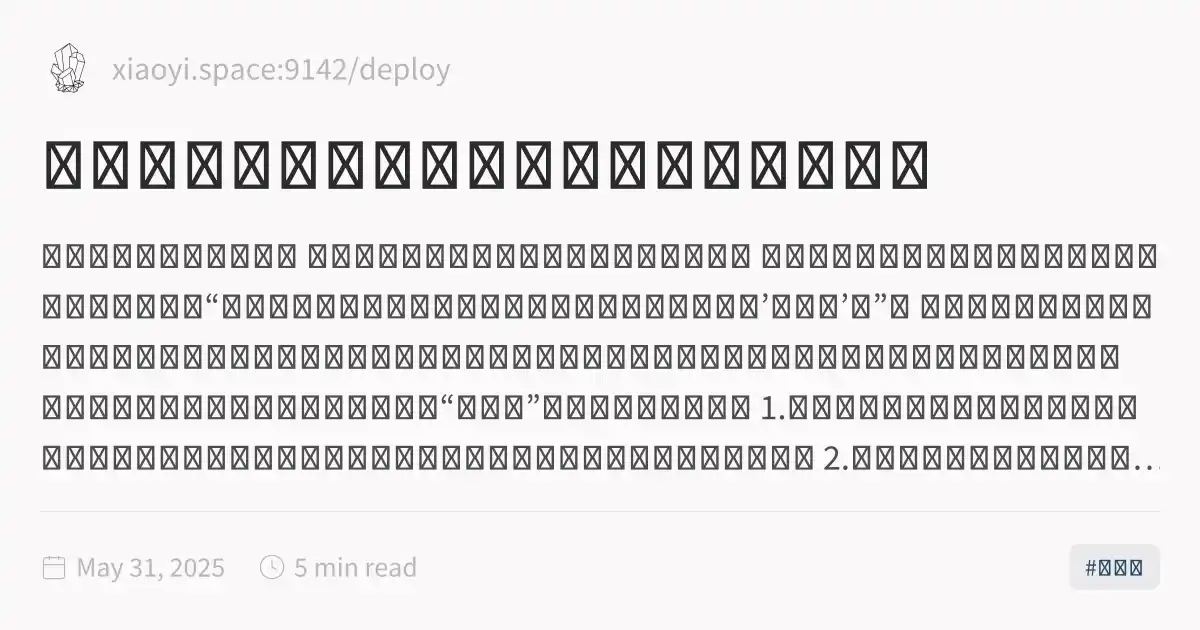
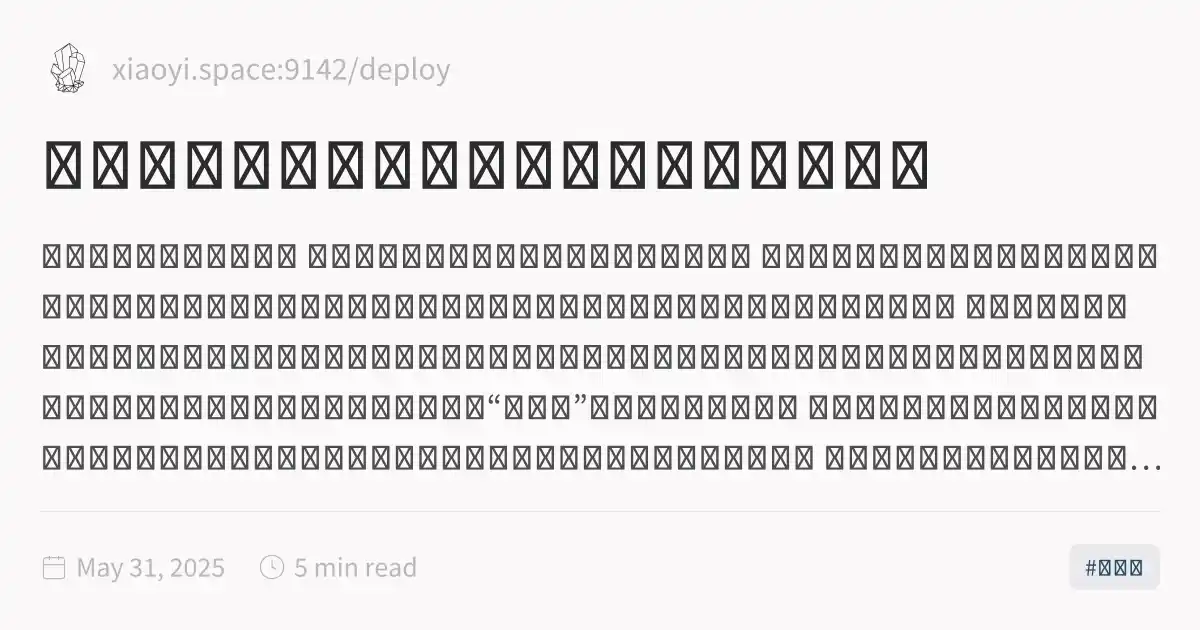
feature:update format

diff --git a/deploy/摩托车安全驾驶需要具备的能力有些什么？.html b/deploy/摩托车安全驾驶需要具备的能力有些什么？.html
@@ -1,5 +1,5 @@
 <!DOCTYPE html>
-<html lang="en"><head><title>摩托车安全驾驶需要具备的能力有些什么？</title><meta charset="utf-8"/><link rel="preconnect" href="https://fonts.googleapis.com"/><link rel="preconnect" href="https://fonts.gstatic.com"/><link rel="stylesheet" href="https://fonts.googleapis.com/css2?family=Schibsted Grotesk:wght@400;700&amp;family=Source Sans Pro:ital,wght@0,400;0,600;1,400;1,600&amp;family=IBM Plex Mono:wght@400;600&amp;display=swap"/><link rel="preconnect" href="https://cdnjs.cloudflare.com" crossorigin="anonymous"/><meta name="viewport" content="width=device-width, initial-scale=1.0"/><meta name="og:site_name" content="xiaoyili.space"/><meta property="og:title" content="摩托车安全驾驶需要具备的能力有些什么？"/><meta property="og:type" content="website"/><meta name="twitter:card" content="summary_large_image"/><meta name="twitter:title" content="摩托车安全驾驶需要具备的能力有些什么？"/><meta name="twitter:description" content="这是一个知乎上的问题。 摩托车安全驾驶需要具备的能力有些什么？ 看到这个问题，想起来不久前一个新手车友也问过我：“你说就平时咱们这种骑车，骑到什么样的水平，算是’骑得好’？”； 说一点个人看法吧，不考虑赛道、金卡纳、越野这种已经属于竞技层次的骑车，单说把摩托车作为一种通勤、旅行的交通工具来说，能做到下面这些，感觉就算是一个“骑得好”的摩托车驾驶人了； 1.平顺的起步，但是又不拖泥带水，不拖挡不熄火，同时在需要的时候也能做到快速果断有一点点暴力的起步； 2.刹车的合理使用，包括平稳的刹停，同时能根据路面情况自由选择用哪一边作为支持脚，这一点要能做到真正的主动去选择而不是被动的由车辆来带动，否则横..."/><meta property="og:description" content="这是一个知乎上的问题。 摩托车安全驾驶需要具备的能力有些什么？ 看到这个问题，想起来不久前一个新手车友也问过我：“你说就平时咱们这种骑车，骑到什么样的水平，算是’骑得好’？”； 说一点个人看法吧，不考虑赛道、金卡纳、越野这种已经属于竞技层次的骑车，单说把摩托车作为一种通勤、旅行的交通工具来说，能做到下面这些，感觉就算是一个“骑得好”的摩托车驾驶人了； 1.平顺的起步，但是又不拖泥带水，不拖挡不熄火，同时在需要的时候也能做到快速果断有一点点暴力的起步； 2.刹车的合理使用，包括平稳的刹停，同时能根据路面情况自由选择用哪一边作为支持脚，这一点要能做到真正的主动去选择而不是被动的由车辆来带动，否则横..."/><meta property="og:image:alt" content="这是一个知乎上的问题。 摩托车安全驾驶需要具备的能力有些什么？ 看到这个问题，想起来不久前一个新手车友也问过我：“你说就平时咱们这种骑车，骑到什么样的水平，算是’骑得好’？”； 说一点个人看法吧，不考虑赛道、金卡纳、越野这种已经属于竞技层次的骑车，单说把摩托车作为一种通勤、旅行的交通工具来说，能做到下面这些，感觉就算是一个“骑得好”的摩托车驾驶人了； 1.平顺的起步，但是又不拖泥带水，不拖挡不熄火，同时在需要的时候也能做到快速果断有一点点暴力的起步； 2.刹车的合理使用，包括平稳的刹停，同时能根据路面情况自由选择用哪一边作为支持脚，这一点要能做到真正的主动去选择而不是被动的由车辆来带动，否则横..."/><meta property="twitter:domain" content="xiaoyi.space:9142/deploy"/><meta property="og:url" content="https://xiaoyi.space:9142/deploy/摩托车安全驾驶需要具备的能力有些什么？"/><meta property="twitter:url" content="https://xiaoyi.space:9142/deploy/摩托车安全驾驶需要具备的能力有些什么？"/><link rel="icon" href="./static/icon.png"/><meta name="description" content="这是一个知乎上的问题。 摩托车安全驾驶需要具备的能力有些什么？ 看到这个问题，想起来不久前一个新手车友也问过我：“你说就平时咱们这种骑车，骑到什么样的水平，算是’骑得好’？”； 说一点个人看法吧，不考虑赛道、金卡纳、越野这种已经属于竞技层次的骑车，单说把摩托车作为一种通勤、旅行的交通工具来说，能做到下面这些，感觉就算是一个“骑得好”的摩托车驾驶人了； 1.平顺的起步，但是又不拖泥带水，不拖挡不熄火，同时在需要的时候也能做到快速果断有一点点暴力的起步； 2.刹车的合理使用，包括平稳的刹停，同时能根据路面情况自由选择用哪一边作为支持脚，这一点要能做到真正的主动去选择而不是被动的由车辆来带动，否则横..."/><meta name="generator" content="Quartz"/><link href="./index.css" rel="stylesheet" type="text/css" spa-preserve/><style>.expand-button {
+<html lang="en"><head><title>摩托车安全驾驶需要具备的能力有些什么？</title><meta charset="utf-8"/><link rel="preconnect" href="https://fonts.googleapis.com"/><link rel="preconnect" href="https://fonts.gstatic.com"/><link rel="stylesheet" href="https://fonts.googleapis.com/css2?family=Schibsted Grotesk:wght@400;700&amp;family=Source Sans Pro:ital,wght@0,400;0,600;1,400;1,600&amp;family=IBM Plex Mono:wght@400;600&amp;display=swap"/><link rel="preconnect" href="https://cdnjs.cloudflare.com" crossorigin="anonymous"/><meta name="viewport" content="width=device-width, initial-scale=1.0"/><meta name="og:site_name" content="xiaoyili.space"/><meta property="og:title" content="摩托车安全驾驶需要具备的能力有些什么？"/><meta property="og:type" content="website"/><meta name="twitter:card" content="summary_large_image"/><meta name="twitter:title" content="摩托车安全驾驶需要具备的能力有些什么？"/><meta name="twitter:description" content="这是一个知乎上的问题。 摩托车安全驾驶需要具备的能力有些什么？ 看到这个问题，想起来不久前一个新手车友也问过我：「你说就平时咱们这种骑车，骑到什么样的水平，算是『骑得好』？」； 说一点个人看法吧，不考虑赛道、金卡纳、越野这种已经属于竞技层次的骑车，单说把摩托车作为一种通勤、旅行的交通工具来说，能做到下面这些，感觉就算是一个“骑得好”的摩托车驾驶人了； 平顺的起步，但是又不拖泥带水，不拖挡不熄火，同时在需要的时候也能做到快速果断有一点点暴力的起步； 刹车的合理使用，包括平稳的刹停，同时能根据路面情况自由选择用哪一边作为支持脚，这一点要能做到真正的主动去选择而不是被动的由车辆来带动，否则横切在有坡..."/><meta property="og:description" content="这是一个知乎上的问题。 摩托车安全驾驶需要具备的能力有些什么？ 看到这个问题，想起来不久前一个新手车友也问过我：「你说就平时咱们这种骑车，骑到什么样的水平，算是『骑得好』？」； 说一点个人看法吧，不考虑赛道、金卡纳、越野这种已经属于竞技层次的骑车，单说把摩托车作为一种通勤、旅行的交通工具来说，能做到下面这些，感觉就算是一个“骑得好”的摩托车驾驶人了； 平顺的起步，但是又不拖泥带水，不拖挡不熄火，同时在需要的时候也能做到快速果断有一点点暴力的起步； 刹车的合理使用，包括平稳的刹停，同时能根据路面情况自由选择用哪一边作为支持脚，这一点要能做到真正的主动去选择而不是被动的由车辆来带动，否则横切在有坡..."/><meta property="og:image:alt" content="这是一个知乎上的问题。 摩托车安全驾驶需要具备的能力有些什么？ 看到这个问题，想起来不久前一个新手车友也问过我：「你说就平时咱们这种骑车，骑到什么样的水平，算是『骑得好』？」； 说一点个人看法吧，不考虑赛道、金卡纳、越野这种已经属于竞技层次的骑车，单说把摩托车作为一种通勤、旅行的交通工具来说，能做到下面这些，感觉就算是一个“骑得好”的摩托车驾驶人了； 平顺的起步，但是又不拖泥带水，不拖挡不熄火，同时在需要的时候也能做到快速果断有一点点暴力的起步； 刹车的合理使用，包括平稳的刹停，同时能根据路面情况自由选择用哪一边作为支持脚，这一点要能做到真正的主动去选择而不是被动的由车辆来带动，否则横切在有坡..."/><meta property="twitter:domain" content="xiaoyi.space:9142/deploy"/><meta property="og:url" content="https://xiaoyi.space:9142/deploy/摩托车安全驾驶需要具备的能力有些什么？"/><meta property="twitter:url" content="https://xiaoyi.space:9142/deploy/摩托车安全驾驶需要具备的能力有些什么？"/><link rel="icon" href="./static/icon.png"/><meta name="description" content="这是一个知乎上的问题。 摩托车安全驾驶需要具备的能力有些什么？ 看到这个问题，想起来不久前一个新手车友也问过我：「你说就平时咱们这种骑车，骑到什么样的水平，算是『骑得好』？」； 说一点个人看法吧，不考虑赛道、金卡纳、越野这种已经属于竞技层次的骑车，单说把摩托车作为一种通勤、旅行的交通工具来说，能做到下面这些，感觉就算是一个“骑得好”的摩托车驾驶人了； 平顺的起步，但是又不拖泥带水，不拖挡不熄火，同时在需要的时候也能做到快速果断有一点点暴力的起步； 刹车的合理使用，包括平稳的刹停，同时能根据路面情况自由选择用哪一边作为支持脚，这一点要能做到真正的主动去选择而不是被动的由车辆来带动，否则横切在有坡..."/><meta name="generator" content="Quartz"/><link href="./index.css" rel="stylesheet" type="text/css" spa-preserve/><style>.expand-button {
   position: absolute;
   display: flex;
   float: right;
@@ -116,24 +116,45 @@ pre:hover > .expand-button {
   padding: 0 12px;
   font-size: 14px;
 }
[2 lines of base64/hex data omitted]
 <a href="https://www.zhihu.com/question/567345988/answer/2764635033" class="external">摩托车安全驾驶需要具备的能力有些什么？<svg aria-hidden="true" class="external-icon" style="max-width:0.8em;max-height:0.8em;" viewBox="0 0 512 512"><path d="M320 0H288V64h32 82.7L201.4 265.4 178.7 288 224 333.3l22.6-22.6L448 109.3V192v32h64V192 32 0H480 320zM32 32H0V64 480v32H32 456h32V480 352 320H424v32 96H64V96h96 32V32H160 32z"></path></svg></a></p>
-<p>看到这个问题，想起来不久前一个新手车友也问过我：“你说就平时咱们这种骑车，骑到什么样的水平，算是’骑得好’？”；</p>
+<p>看到这个问题，想起来不久前一个新手车友也问过我：「你说就平时咱们这种骑车，骑到什么样的水平，算是『骑得好』？」；</p>
 <p>说一点个人看法吧，不考虑赛道、金卡纳、越野这种已经属于竞技层次的骑车，单说把摩托车作为一种通勤、旅行的交通工具来说，能做到下面这些，感觉就算是一个“骑得好”的摩托车驾驶人了；</p>
-<p>1.平顺的起步，但是又不拖泥带水，不拖挡不熄火，同时在需要的时候也能做到快速果断有一点点暴力的起步；</p>
-<p>2.刹车的合理使用，包括平稳的刹停，同时能根据路面情况自由选择用哪一边作为支持脚，这一点要能做到真正的主动去选择而不是被动的由车辆来带动，否则横切在有坡度的路面上停车的时候，很容易摔；其次，紧急情况下能够迅速停车，能做到下意识在有一定<a href="https://zhida.zhihu.com/search?content_id=532748159&amp;content_type=Answer&amp;match_order=1&amp;q=%E5%80%BE%E8%A7%92&amp;zhida_source=entity" class="external">倾角<svg aria-hidden="true" class="external-icon" style="max-width:0.8em;max-height:0.8em;" viewBox="0 0 512 512"><path d="M320 0H288V64h32 82.7L201.4 265.4 178.7 288 224 333.3l22.6-22.6L448 109.3V192v32h64V192 32 0H480 320zM32 32H0V64 480v32H32 456h32V480 352 320H424v32 96H64V96h96 32V32H160 32z"></path></svg></a></p>
-<p>时及时回正车辆再刹停的操作；</p>
-<p>3.合理升档，既能够通过合理的挡位和<a href="https://zhida.zhihu.com/search?content_id=532748159&amp;content_type=Answer&amp;match_order=1&amp;q=%E8%BD%AC%E9%80%9F&amp;zhida_source=entity" class="external">转速<svg aria-hidden="true" class="external-icon" style="max-width:0.8em;max-height:0.8em;" viewBox="0 0 512 512"><path d="M320 0H288V64h32 82.7L201.4 265.4 178.7 288 224 333.3l22.6-22.6L448 109.3V192v32h64V192 32 0H480 320zM32 32H0V64 480v32H32 456h32V480 352 320H424v32 96H64V96h96 32V32H160 32z"></path></svg></a></p>
-<p>匹配开出顿挫小、提速线性的加速，也能在需要的时候懂得如何压榨车辆性能，开出提速比较迅捷的加速；</p>
-<p>4.能合理的降档，包括车辆减速的时候保证速度和挡位的随时匹配，不顿挫不拖挡，以及需要迅速提速超车的时候通过合理的<a href="https://zhida.zhihu.com/search?content_id=532748159&amp;content_type=Answer&amp;match_order=1&amp;q=%E9%99%8D%E6%A1%A3%E8%A1%A5%E6%B2%B9&amp;zhida_source=entity" class="external">降档补油<svg aria-hidden="true" class="external-icon" style="max-width:0.8em;max-height:0.8em;" viewBox="0 0 512 512"><path d="M320 0H288V64h32 82.7L201.4 265.4 178.7 288 224 333.3l22.6-22.6L448 109.3V192v32h64V192 32 0H480 320zM32 32H0V64 480v32H32 456h32V480 352 320H424v32 96H64V96h96 32V32H160 32z"></path></svg></a></p>
-<p>达到不损失速度同时提升车辆加速度的目的；</p>
-<p>5.通过弯道的时候能做到入弯前合理的减速、降档，同时走线合理，懂得通过合理的走线、结合身体重心偏移与舵角达成一个不危险的倾角不越线地过弯，同时弯道驾驶有正确的视线管理，做到通过视线带动车辆；</p>
-<p>6.狭窄路面，人车混行路面能够通过熟练的油离刹配合低速平稳安全的通过；</p>
-<p>7.具备一定的非铺装路面行驶能力，在非铺装且有一定坡度的路面上能够稳定控车，安全通过；</p>
-<p>8.能做到在比较小的转弯半径下掉头；</p>
-<p>9.良好的道路交通规则意识，遵守交通信号灯和标志标线的指示，变道、通过路口能够正确使用转向灯，超车闪灯鸣笛、盲弯入弯闪灯鸣笛。当然现行交规中针对摩托车的少量不合理规定，甚至可能反而将摩托车驾驶人置于危险的规定，可以适当灵活处理，譬如，严格的靠右侧车道行驶，这一点在即将通过路口左转，以及最右侧车道有车辆停靠之类的场景下，如果严格遵守，反而对摩托车驾驶人及他人是危险的。个人的看法是，把自己当成一辆两个轮子的汽车来开;</p>
-<p>11.骑车出去，务必头盔护具手套齐全，当然特别短的路买个菜洗个车，护具可以酌情减少一点，但是头盔手套不可或缺;</p>
-<p>12.管得住右手，从内心认同“安全驾驶才是第一位”，“骑得快不如骑得久”；</p>
+<ol>
+<li>
+<p>平顺的起步，但是又不拖泥带水，不拖挡不熄火，同时在需要的时候也能做到快速果断有一点点暴力的起步；</p>
+</li>
+<li>
+<p>刹车的合理使用，包括平稳的刹停，同时能根据路面情况自由选择用哪一边作为支持脚，这一点要能做到真正的主动去选择而不是被动的由车辆来带动，否则横切在有坡度的路面上停车的时候，很容易摔；其次，紧急情况下能够迅速停车，能做到下意识在有一定倾角时及时回正车辆再刹停的操作；</p>
+</li>
+<li>
+<p>合理升档，既能够通过合理的挡位和转速匹配开出顿挫小、提速线性的加速，也能在需要的时候懂得如何压榨车辆性能，开出提速比较迅捷的加速；</p>
+</li>
+<li>
+<p>能合理的降档，包括车辆减速的时候保证速度和挡位的随时匹配，不顿挫不拖挡，以及需要迅速提速超车的时候通过合理的降档补油达到不损失速度同时提升车辆加速度的目的；</p>
+</li>
+<li>
+<p>通过弯道的时候能做到入弯前合理的减速、降档，同时走线合理，懂得通过合理的走线、结合身体重心偏移与舵角达成一个不危险的倾角不越线地过弯，同时弯道驾驶有正确的视线管理，做到通过视线带动车辆；</p>
+</li>
+<li>
+<p>狭窄路面，人车混行路面能够通过熟练的油离刹配合低速平稳安全的通过；</p>
+</li>
+<li>
+<p>具备一定的非铺装路面行驶能力，在非铺装且有一定坡度的路面上能够稳定控车，安全通过；</p>
+</li>
+<li>
+<p>能做到在比较小的转弯半径下掉头；</p>
+</li>
+<li>
+<p>良好的道路交通规则意识，遵守交通信号灯和标志标线的指示，变道、通过路口能够正确使用转向灯，超车闪灯鸣笛、盲弯入弯闪灯鸣笛。当然现行交规中针对摩托车的少量不合理规定，甚至可能反而将摩托车驾驶人置于危险的规定，可以适当灵活处理，譬如，严格的靠右侧车道行驶，这一点在即将通过路口左转，以及最右侧车道有车辆停靠之类的场景下，如果严格遵守，反而对摩托车驾驶人及他人是危险的。个人的看法是，把自己当成一辆两个轮子的汽车来开;</p>
+</li>
+<li>
+<p>骑车出去，务必头盔护具手套齐全，当然特别短的路买个菜洗个车，护具可以酌情减少一点，但是头盔手套不可或缺;</p>
+</li>
+<li>
+<p>管得住右手，从内心认同“安全驾驶才是第一位”，“骑得快不如骑得久”；</p>
+</li>
+</ol>
 <p>个人感觉是，如果这些要求都已经做到了，就算是“骑得不错”，有安全驾驶的基本能力了。</p></article><hr/><div class="page-footer"></div></div><div class="right sidebar"><div class="graph"><h3>Graph View</h3><div class="graph-outer"><div class="graph-container" data-cfg="{&quot;drag&quot;:true,&quot;zoom&quot;:true,&quot;depth&quot;:1,&quot;scale&quot;:1.1,&quot;repelForce&quot;:0.5,&quot;centerForce&quot;:0.3,&quot;linkDistance&quot;:30,&quot;fontSize&quot;:0.6,&quot;opacityScale&quot;:1,&quot;showTags&quot;:true,&quot;removeTags&quot;:[],&quot;focusOnHover&quot;:false,&quot;enableRadial&quot;:false}"></div><button class="global-graph-icon" aria-label="Global Graph"><svg version="1.1" xmlns="http://www.w3.org/2000/svg" xmlns:xlink="http://www.w3.org/1999/xlink" x="0px" y="0px" viewBox="0 0 55 55" fill="currentColor" xml:space="preserve"><path d="M49,0c-3.309,0-6,2.691-6,6c0,1.035,0.263,2.009,0.726,2.86l-9.829,9.829C32.542,17.634,30.846,17,29,17
                 s-3.542,0.634-4.898,1.688l-7.669-7.669C16.785,10.424,17,9.74,17,9c0-2.206-1.794-4-4-4S9,6.794,9,9s1.794,4,4,4
                 c0.74,0,1.424-0.215,2.019-0.567l7.669,7.669C21.634,21.458,21,23.154,21,25s0.634,3.542,1.688,4.897L10.024,42.562

diff --git a/deploy/tags/index.html b/deploy/tags/index.html
@@ -116,6 +116,6 @@ pre:hover > .expand-button {
   padding: 0 12px;
   font-size: 14px;
 }
[2 lines of base64/hex data omitted]
 </script><script type="module">function f(i,e){if(!i)return;function r(o){o.target===this&&(o.preventDefault(),o.stopPropagation(),e())}function t(o){o.key.startsWith("Esc")&&(o.preventDefault(),e())}i?.addEventListener("click",r),window.addCleanup(()=>i?.removeEventListener("click",r)),document.addEventListener("keydown",t),window.addCleanup(()=>document.removeEventListener("keydown",t))}function y(i){for(;i.firstChild;)i.removeChild(i.firstChild)}var h=class{constructor(e,r){this.container=e;this.content=r;this.setupEventListeners(),this.setupNavigationControls(),this.resetTransform()}isDragging=!1;startPan={x:0,y:0};currentPan={x:0,y:0};scale=1;MIN_SCALE=.5;MAX_SCALE=3;cleanups=[];setupEventListeners(){let e=this.onMouseDown.bind(this),r=this.onMouseMove.bind(this),t=this.onMouseUp.bind(this),o=this.resetTransform.bind(this);this.container.addEventListener("mousedown",e),document.addEventListener("mousemove",r),document.addEventListener("mouseup",t),window.addEventListener("resize",o),this.cleanups.push(()=>this.container.removeEventListener("mousedown",e),()=>document.removeEventListener("mousemove",r),()=>document.removeEventListener("mouseup",t),()=>window.removeEventListener("resize",o))}cleanup(){for(let e of this.cleanups)e()}setupNavigationControls(){let e=document.createElement("div");e.className="mermaid-controls";let r=this.createButton("+",()=>this.zoom(.1)),t=this.createButton("-",()=>this.zoom(-.1)),o=this.createButton("Reset",()=>this.resetTransform());e.appendChild(t),e.appendChild(o),e.appendChild(r),this.container.appendChild(e)}createButton(e,r){let t=document.createElement("button");return t.textContent=e,t.className="mermaid-control-button",t.addEventListener("click",r),window.addCleanup(()=>t.removeEventListener("click",r)),t}onMouseDown(e){e.button===0&&(this.isDragging=!0,this.startPan={x:e.clientX-this.currentPan.x,y:e.clientY-this.currentPan.y},this.container.style.cursor="grabbing")}onMouseMove(e){this.isDragging&&(e.preventDefault(),this.currentPan={x:e.clientX-this.startPan.x,y:e.clientY-this.startPan.y},this.updateTransform())}onMouseUp(){this.isDragging=!1,this.container.style.cursor="grab"}zoom(e){let r=Math.min(Math.max(this.scale+e,this.MIN_SCALE),this.MAX_SCALE),t=this.content.getBoundingClientRect(),o=t.width/2,n=t.height/2,c=r-this.scale;this.currentPan.x-=o*c,this.currentPan.y-=n*c,this.scale=r,this.updateTransform()}updateTransform(){this.content.style.transform=`translate(${this.currentPan.x}px, ${this.currentPan.y}px) scale(${this.scale})`}resetTransform(){this.scale=1;let e=this.content.querySelector("svg");this.currentPan={x:e.getBoundingClientRect().width/2,y:e.getBoundingClientRect().height/2},this.updateTransform()}},C=["--secondary","--tertiary","--gray","--light","--lightgray","--highlight","--dark","--darkgray","--codeFont"],E;document.addEventListener("nav",async()=>{let e=document.querySelector(".center").querySelectorAll("code.mermaid");if(e.length===0)return;E||=await import("https://cdnjs.cloudflare.com/ajax/libs/mermaid/11.4.0/mermaid.esm.min.mjs");let r=E.default,t=new WeakMap;for(let n of e)t.set(n,n.innerText);async function o(){for(let s of e){s.removeAttribute("data-processed");let a=t.get(s);a&&(s.innerHTML=a)}let n=C.reduce((s,a)=>(s[a]=window.getComputedStyle(document.documentElement).getPropertyValue(a),s),{}),c=document.documentElement.getAttribute("saved-theme")==="dark";r.initialize({startOnLoad:!1,securityLevel:"loose",theme:c?"dark":"base",themeVariables:{fontFamily:n["--codeFont"],primaryColor:n["--light"],primaryTextColor:n["--darkgray"],primaryBorderColor:n["--tertiary"],lineColor:n["--darkgray"],secondaryColor:n["--secondary"],tertiaryColor:n["--tertiary"],clusterBkg:n["--light"],edgeLabelBackground:n["--highlight"]}}),await r.run({nodes:e})}await o(),document.addEventListener("themechange",o),window.addCleanup(()=>document.removeEventListener("themechange",o));for(let n=0;n<e.length;n++){let v=function(){let g=l.querySelector("#mermaid-space"),m=l.querySelector(".mermaid-content");if(!m)return;y(m);let w=c.querySelector("svg").cloneNode(!0);m.appendChild(w),l.classList.add("active"),g.style.cursor="grab",u=new h(g,m)},M=function(){l.classList.remove("active"),u?.cleanup(),u=null},c=e[n],s=c.parentElement,a=s.querySelector(".clipboard-button"),d=s.querySelector(".expand-button"),p=window.getComputedStyle(a),L=a.offsetWidth+parseFloat(p.marginLeft||"0")+parseFloat(p.marginRight||"0");d.style.right=`calc(${L}px + 0.3rem)`,s.prepend(d);let l=s.querySelector("#mermaid-container");if(!l)return;let u=null;d.addEventListener("click",v),f(l,M),window.addCleanup(()=>{u?.cleanup(),d.removeEventListener("click",v)})}});
 </script><script src="https://cdn.jsdelivr.net/npm/katex@0.16.11/dist/contrib/copy-tex.min.js" type="application/javascript"></script><script src="../postscript.js" type="module"></script></html>

diff --git a/deploy/tags/摩托车.html b/deploy/tags/摩托车.html
@@ -116,6 +116,6 @@ pre:hover > .expand-button {
   padding: 0 12px;
   font-size: 14px;
 }
[2 lines of base64/hex data omitted]
 </script><script type="module">function f(i,e){if(!i)return;function r(o){o.target===this&&(o.preventDefault(),o.stopPropagation(),e())}function t(o){o.key.startsWith("Esc")&&(o.preventDefault(),e())}i?.addEventListener("click",r),window.addCleanup(()=>i?.removeEventListener("click",r)),document.addEventListener("keydown",t),window.addCleanup(()=>document.removeEventListener("keydown",t))}function y(i){for(;i.firstChild;)i.removeChild(i.firstChild)}var h=class{constructor(e,r){this.container=e;this.content=r;this.setupEventListeners(),this.setupNavigationControls(),this.resetTransform()}isDragging=!1;startPan={x:0,y:0};currentPan={x:0,y:0};scale=1;MIN_SCALE=.5;MAX_SCALE=3;cleanups=[];setupEventListeners(){let e=this.onMouseDown.bind(this),r=this.onMouseMove.bind(this),t=this.onMouseUp.bind(this),o=this.resetTransform.bind(this);this.container.addEventListener("mousedown",e),document.addEventListener("mousemove",r),document.addEventListener("mouseup",t),window.addEventListener("resize",o),this.cleanups.push(()=>this.container.removeEventListener("mousedown",e),()=>document.removeEventListener("mousemove",r),()=>document.removeEventListener("mouseup",t),()=>window.removeEventListener("resize",o))}cleanup(){for(let e of this.cleanups)e()}setupNavigationControls(){let e=document.createElement("div");e.className="mermaid-controls";let r=this.createButton("+",()=>this.zoom(.1)),t=this.createButton("-",()=>this.zoom(-.1)),o=this.createButton("Reset",()=>this.resetTransform());e.appendChild(t),e.appendChild(o),e.appendChild(r),this.container.appendChild(e)}createButton(e,r){let t=document.createElement("button");return t.textContent=e,t.className="mermaid-control-button",t.addEventListener("click",r),window.addCleanup(()=>t.removeEventListener("click",r)),t}onMouseDown(e){e.button===0&&(this.isDragging=!0,this.startPan={x:e.clientX-this.currentPan.x,y:e.clientY-this.currentPan.y},this.container.style.cursor="grabbing")}onMouseMove(e){this.isDragging&&(e.preventDefault(),this.currentPan={x:e.clientX-this.startPan.x,y:e.clientY-this.startPan.y},this.updateTransform())}onMouseUp(){this.isDragging=!1,this.container.style.cursor="grab"}zoom(e){let r=Math.min(Math.max(this.scale+e,this.MIN_SCALE),this.MAX_SCALE),t=this.content.getBoundingClientRect(),o=t.width/2,n=t.height/2,c=r-this.scale;this.currentPan.x-=o*c,this.currentPan.y-=n*c,this.scale=r,this.updateTransform()}updateTransform(){this.content.style.transform=`translate(${this.currentPan.x}px, ${this.currentPan.y}px) scale(${this.scale})`}resetTransform(){this.scale=1;let e=this.content.querySelector("svg");this.currentPan={x:e.getBoundingClientRect().width/2,y:e.getBoundingClientRect().height/2},this.updateTransform()}},C=["--secondary","--tertiary","--gray","--light","--lightgray","--highlight","--dark","--darkgray","--codeFont"],E;document.addEventListener("nav",async()=>{let e=document.querySelector(".center").querySelectorAll("code.mermaid");if(e.length===0)return;E||=await import("https://cdnjs.cloudflare.com/ajax/libs/mermaid/11.4.0/mermaid.esm.min.mjs");let r=E.default,t=new WeakMap;for(let n of e)t.set(n,n.innerText);async function o(){for(let s of e){s.removeAttribute("data-processed");let a=t.get(s);a&&(s.innerHTML=a)}let n=C.reduce((s,a)=>(s[a]=window.getComputedStyle(document.documentElement).getPropertyValue(a),s),{}),c=document.documentElement.getAttribute("saved-theme")==="dark";r.initialize({startOnLoad:!1,securityLevel:"loose",theme:c?"dark":"base",themeVariables:{fontFamily:n["--codeFont"],primaryColor:n["--light"],primaryTextColor:n["--darkgray"],primaryBorderColor:n["--tertiary"],lineColor:n["--darkgray"],secondaryColor:n["--secondary"],tertiaryColor:n["--tertiary"],clusterBkg:n["--light"],edgeLabelBackground:n["--highlight"]}}),await r.run({nodes:e})}await o(),document.addEventListener("themechange",o),window.addCleanup(()=>document.removeEventListener("themechange",o));for(let n=0;n<e.length;n++){let v=function(){let g=l.querySelector("#mermaid-space"),m=l.querySelector(".mermaid-content");if(!m)return;y(m);let w=c.querySelector("svg").cloneNode(!0);m.appendChild(w),l.classList.add("active"),g.style.cursor="grab",u=new h(g,m)},M=function(){l.classList.remove("active"),u?.cleanup(),u=null},c=e[n],s=c.parentElement,a=s.querySelector(".clipboard-button"),d=s.querySelector(".expand-button"),p=window.getComputedStyle(a),L=a.offsetWidth+parseFloat(p.marginLeft||"0")+parseFloat(p.marginRight||"0");d.style.right=`calc(${L}px + 0.3rem)`,s.prepend(d);let l=s.querySelector("#mermaid-container");if(!l)return;let u=null;d.addEventListener("click",v),f(l,M),window.addCleanup(()=>{u?.cleanup(),d.removeEventListener("click",v)})}});
 </script><script src="https://cdn.jsdelivr.net/npm/katex@0.16.11/dist/contrib/copy-tex.min.js" type="application/javascript"></script><script src="../postscript.js" type="module"></script></html>
